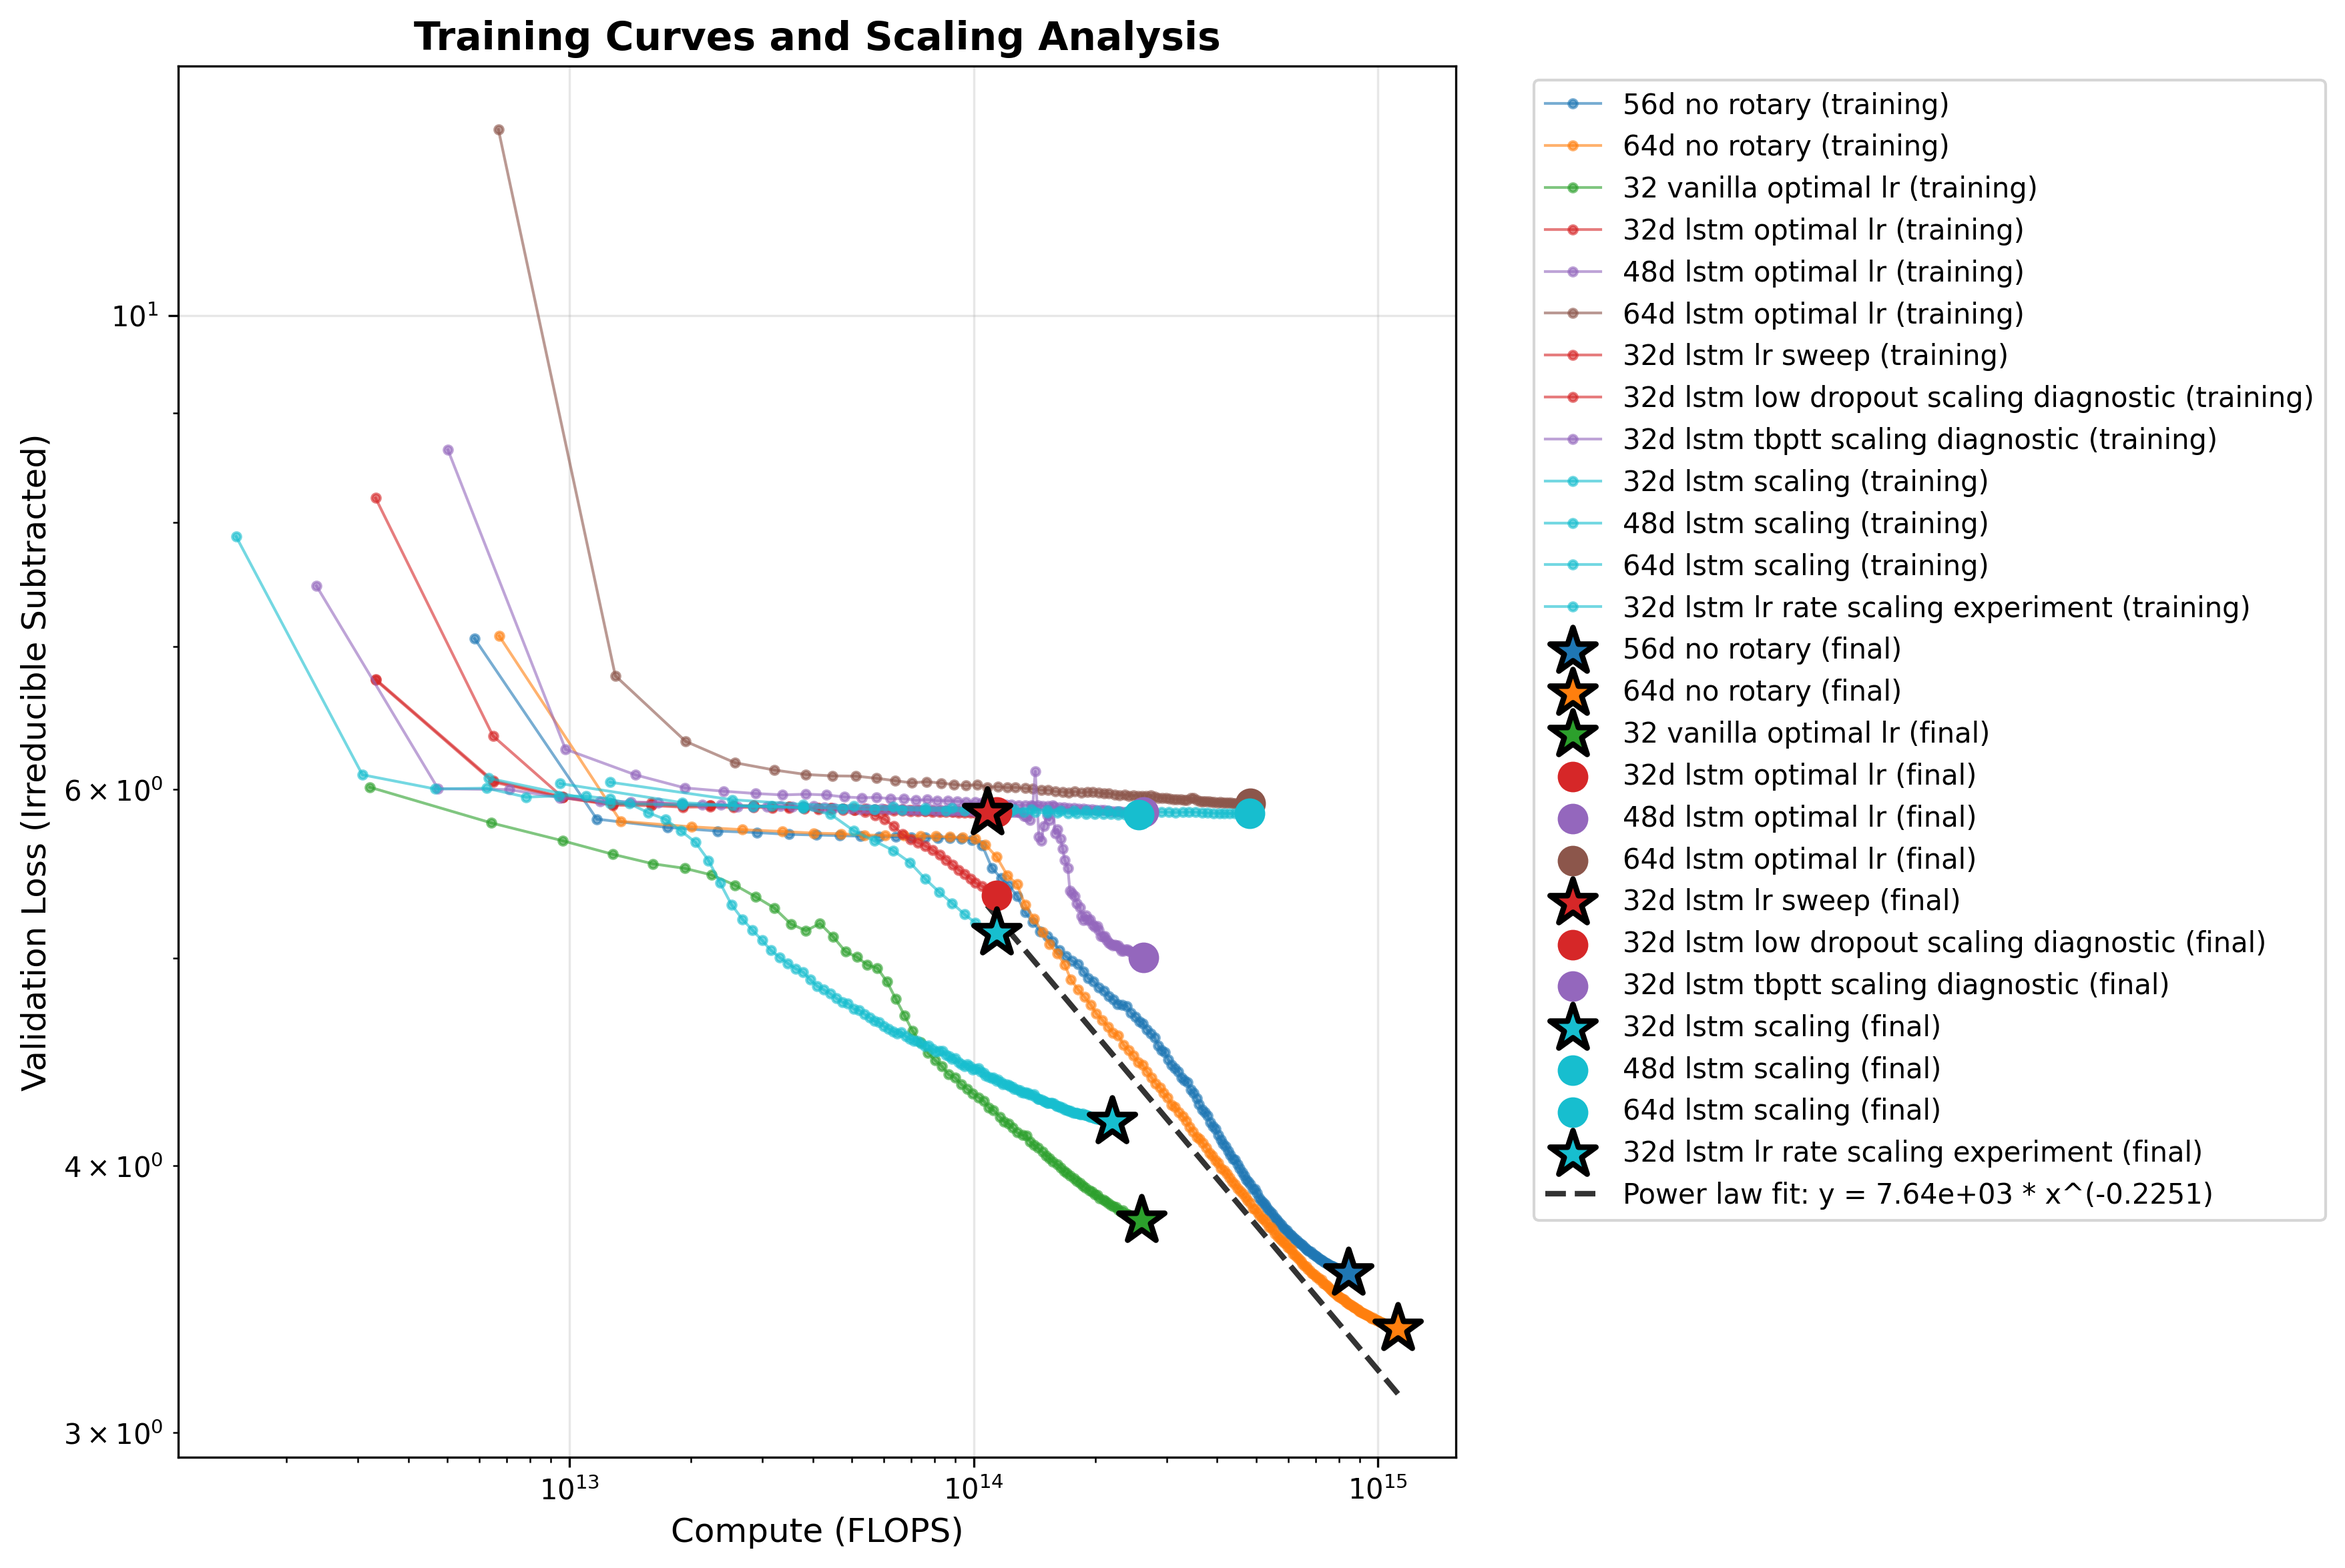
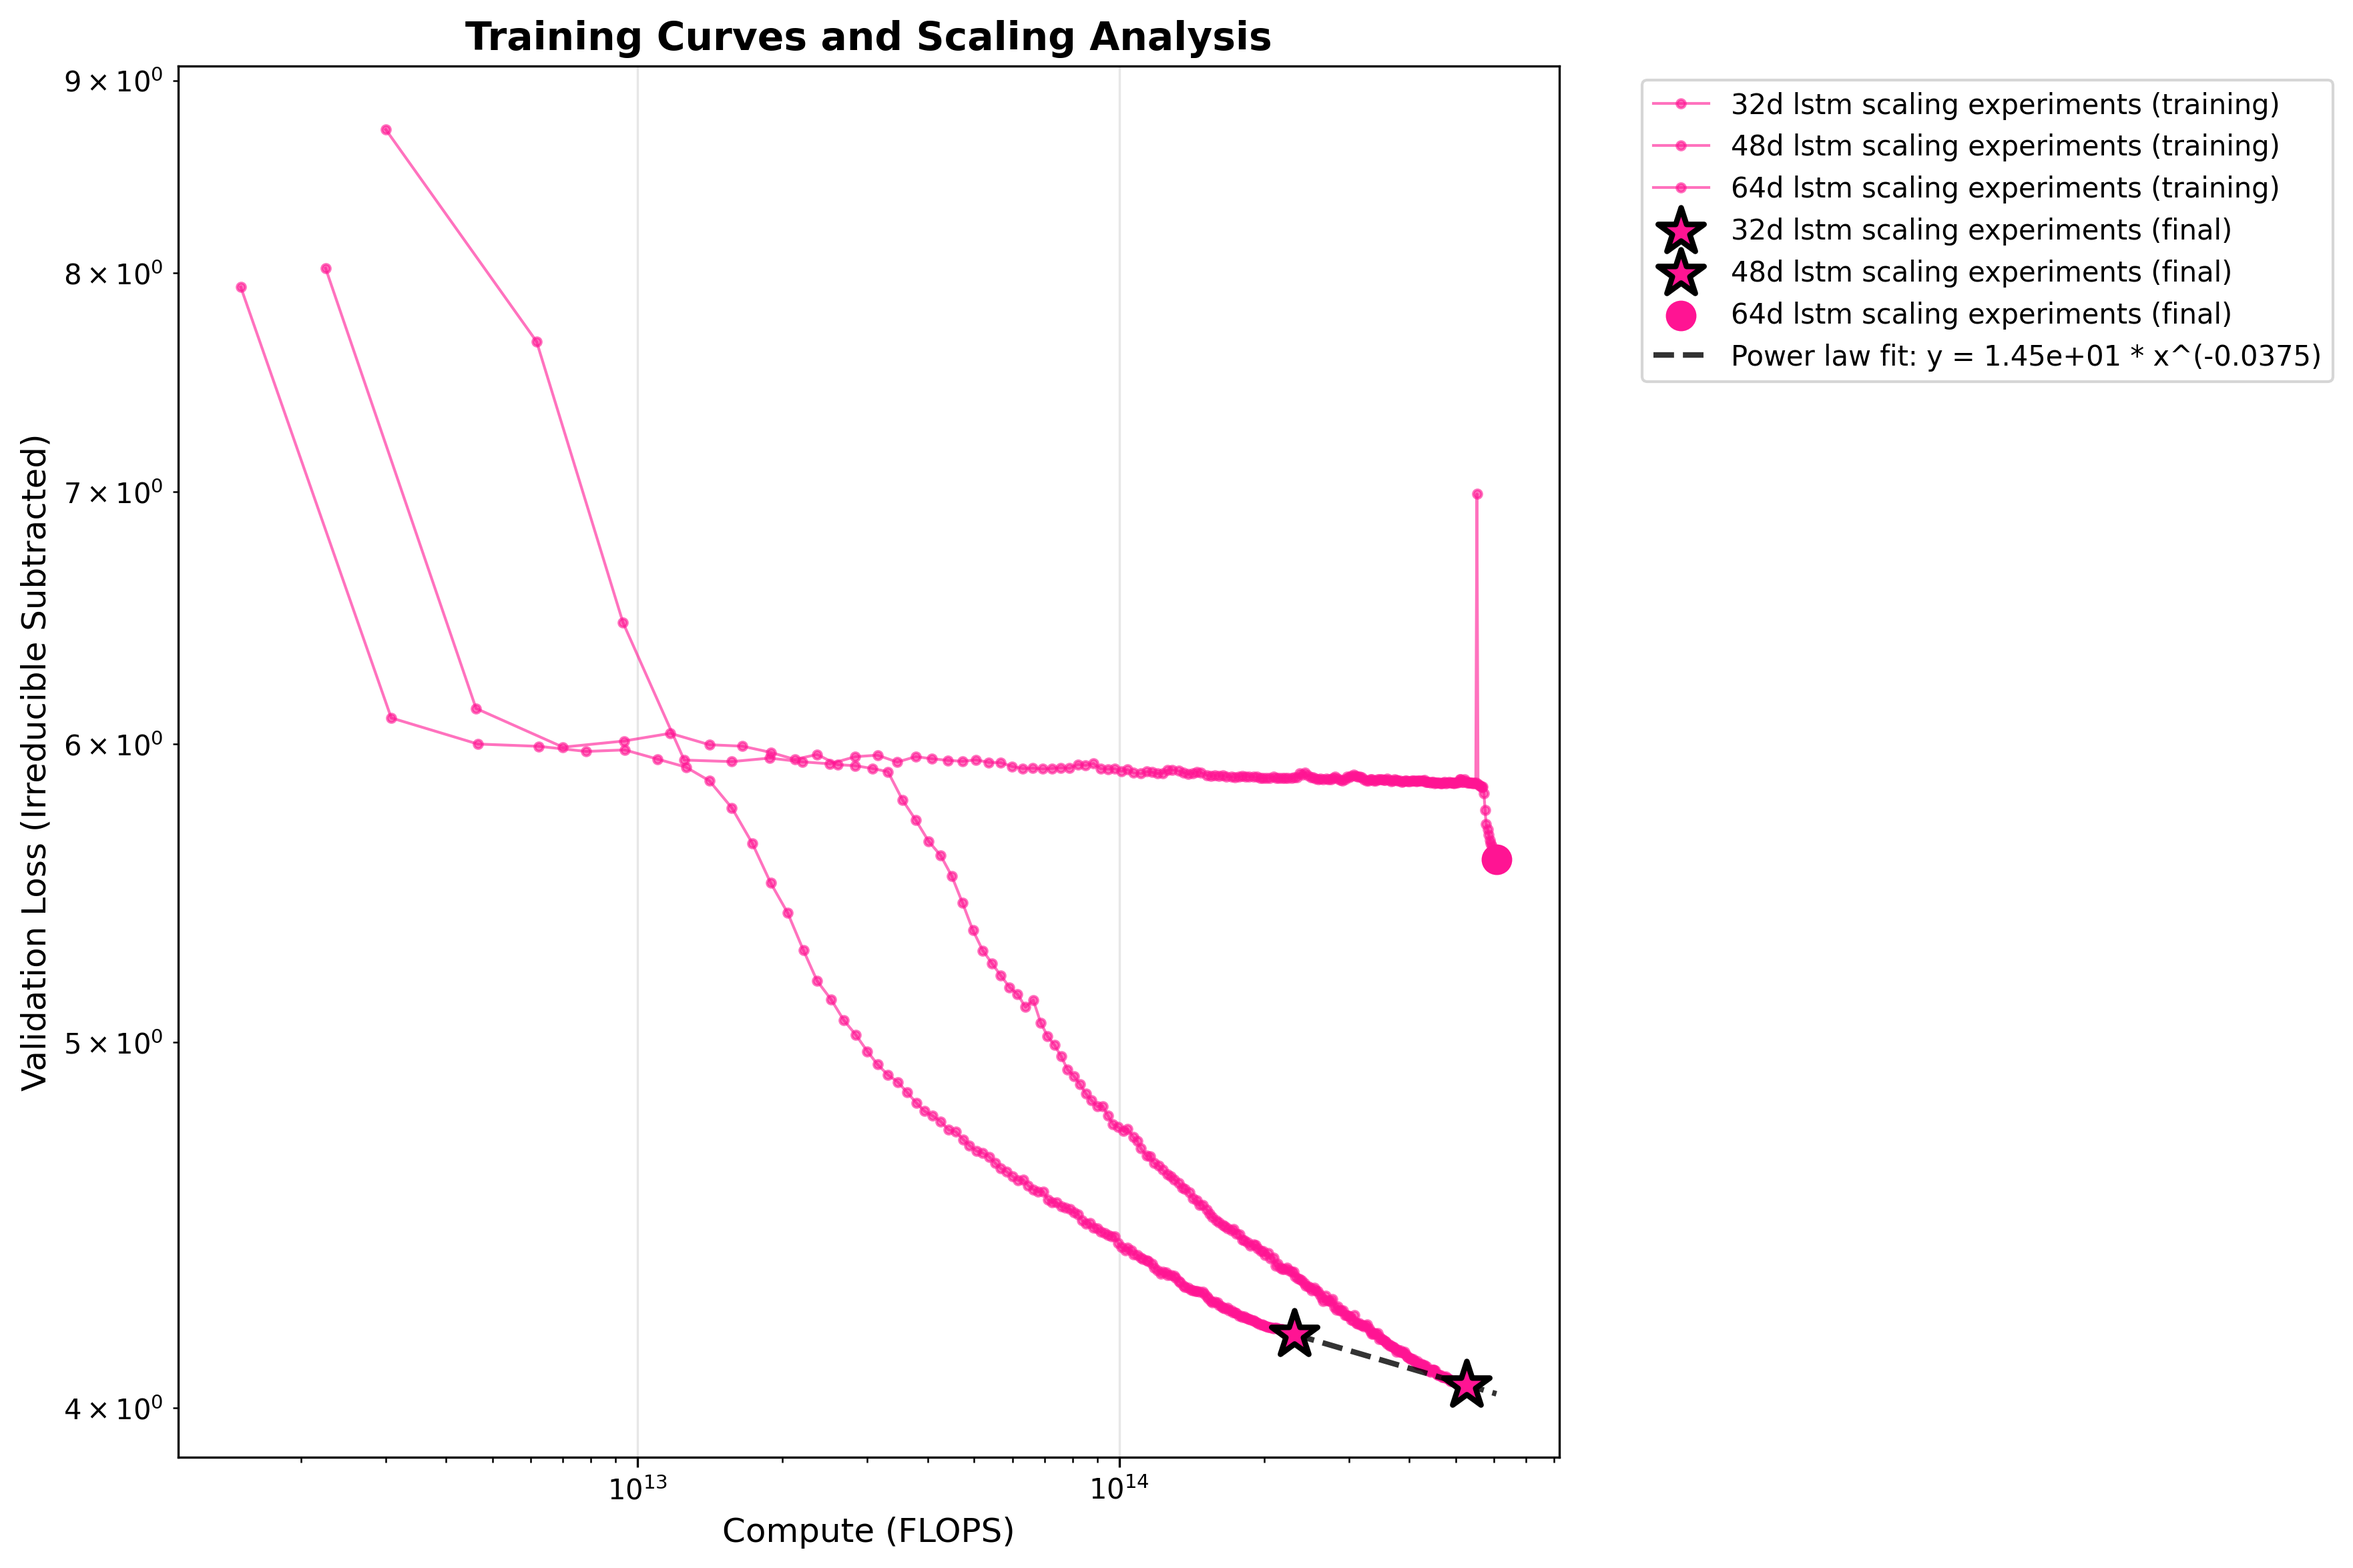
working things before wandb update

diff --git a/experimental_analysis/debugging_scaling_lstm.py b/experimental_analysis/debugging_scaling_lstm.py
@@ -413,131 +413,159 @@ if __name__ == "__main__":
 
     # Add experiments - you can modify these paths and names as needed
     experiments_config = [
-        {
-            "name": "56d no rotary",
-            "csv_path": "../experimental_data_folder/vanilla_scaling_no_rotary/vanilla_56d_no_rot.csv",
-            "marker": "o",
-            "include_in_frontier": True,  # Include in frontier analysis
-            "class": "vanilla_transformer_no_rotary",
-            "hidden_dim": 56,
-        },
-        {
-            "name": "64d no rotary",
-            "csv_path": "../experimental_data_folder/vanilla_scaling_no_rotary/vanilla_64d_no_rot.csv",
-            "marker": "o",
-            "include_in_frontier": True,  # Include in frontier analysis
-            "class": "vanilla_transformer_no_rotary",
-            "hidden_dim": 64,
-        },
-        {
-            "name": "32 vanilla optimal lr",
-            "csv_path": "../experimental_data_folder/vanilla_scaling_optimal_lr/vanilla_32d.csv",
-            "marker": "o",
-            "include_in_frontier": True,  # Include in frontier analysis
-            "class": "vanilla_transformer",
-            "hidden_dim": 32,
-        },
+        # {
+        #     "name": "56d no rotary",
+        #     "csv_path": "../experimental_data_folder/vanilla_scaling_no_rotary/vanilla_56d_no_rot.csv",
+        #     "marker": "o",
+        #     "include_in_frontier": True,  # Include in frontier analysis
+        #     "class": "vanilla_transformer_no_rotary",
+        #     "hidden_dim": 56,
+        # },
+        # {
+        #     "name": "64d no rotary",
+        #     "csv_path": "../experimental_data_folder/vanilla_scaling_no_rotary/vanilla_64d_no_rot.csv",
+        #     "marker": "o",
+        #     "include_in_frontier": True,  # Include in frontier analysis
+        #     "class": "vanilla_transformer_no_rotary",
+        #     "hidden_dim": 64,
+        # },
+        # {
+        #     "name": "32 vanilla optimal lr",
+        #     "csv_path": "../experimental_data_folder/vanilla_scaling_optimal_lr/vanilla_32d.csv",
+        #     "marker": "o",
+        #     "include_in_frontier": True,  # Include in frontier analysis
+        #     "class": "vanilla_transformer",
+        #     "hidden_dim": 32,
+        # },
         # lstm scaling
+        # {
+        #     "name": "32d lstm optimal lr",
+        #     "csv_path": "../experimental_data_folder/lstm_scaling/32d_lstm_experiment.csv",
+        #     "marker": "o",
+        #     "include_in_frontier": True,  # Include in frontier analysis
+        #     "class": "lstm",
+        #     "hidden_dim": 32,
+        # },
+        # {
+        #     "name": "48d lstm optimal lr",
+        #     "csv_path": "../experimental_data_folder/lstm_scaling/48d_lstm_experiment.csv",
+        #     "marker": "o",
+        #     "include_in_frontier": True,  # Include in frontier analysis
+        #     "class": "lstm",
+        #     "hidden_dim": 48,
+        # },
+        # {
+        #     "name": "64d lstm optimal lr",
+        #     "csv_path": "../experimental_data_folder/lstm_scaling/64d_lstm_experiment.csv",
+        #     "marker": "o",
+        #     "include_in_frontier": True,  # Include in frontier analysis
+        #     "class": "lstm",
+        #     "hidden_dim": 64,
+        # },
+        # # lr sweep lstm
+        # {
+        #     "name": "32d lstm lr sweep",
+        #     "csv_path": "../experimental_data_folder/lstm_scaling_lr_sweep/32d_lstm_experiment_lr_10e2.csv",
+        #     "marker": "o",
+        #     "include_in_frontier": True,  # Include in frontier analysis
+        #     "class": "lstm",
+        #     "color": "tab:red",
+        #     "hidden_dim": 32,
+        # },
+        # # low drouput scaling diagnostic
+        # {
+        #     "name": "32d lstm low dropout scaling diagnostic",
+        #     "csv_path": "../experimental_data_folder/lstm_scaling_diagnostic/32d_lstm_low_dropout.csv",
+        #     "marker": "o",
+        #     "include_in_frontier": True,  # Include in frontier analysis
+        #     "class": "lstm",
+        #     "color": "tab:red",
+        #     "hidden_dim": 32,
+        # },
+        # # tbptt scaling diagnostic
+        # {
+        #     "name": "32d lstm tbptt scaling diagnostic",
+        #     "csv_path": "../experimental_data_folder/lstm_scaling_diagnostic/32d_lstm_no_dropout_002_warmup_testtbptt64.csv",
+        #     "marker": "o",
+        #     "include_in_frontier": True,  # Include in frontier analysis
+        #     "class": "lstm",
+        #     "color": "tab:purple",
+        #     "hidden_dim": 32,
+        # },
+        # {
+        #     "name": "32d lstm tbptt scaling diagnostic",
+        #     "csv_path": "../experimental_data_folder/lstm_scaling_diagnostic/48d_batchsize64ll.csv",
+        #     "marker": "o",
+        #     "include_in_frontier": True,  # Include in frontier analysis
+        #     "class": "lstm",
+        #     "color": "tab:purple",
+        #     "hidden_dim": 32,
+        # },
+        # # lstm scaling
+        # {
+        #     "name": "32d lstm scaling",
+        #     "csv_path": "../experimental_data_folder/lstm_scaling/32d_lstm_scaling.csv",
+        #     "marker": "o",
+        #     "include_in_frontier": True,  # Include in frontier analysis
+        #     "class": "lstm",
+        #     "color": "tab:cyan",
+        #     "hidden_dim": 32,
+        # },
+        # {
+        #     "name": "48d lstm scaling",
+        #     "csv_path": "../experimental_data_folder/lstm_scaling/48d_lstm_scaling.csv",
+        #     "marker": "o",
+        #     "include_in_frontier": True,  # Include in frontier analysis
+        #     "class": "lstm",
+        #     "color": "tab:cyan",
+        #     "hidden_dim": 48,
+        # },
+        # {
+        #     "name": "64d lstm scaling",
+        #     "csv_path": "../experimental_data_folder/lstm_scaling/64d_lstm_scaling.csv",
+        #     "marker": "o",
+        #     "include_in_frontier": True,  # Include in frontier analysis
+        #     "class": "lstm",
+        #     "color": "tab:cyan",
+        #     "hidden_dim": 64,
+        # },
+        # # lstm lr rate scaling experiment
+        # {
+        #     "name": "32d lstm lr rate scaling experiment",
+        #     "csv_path": "../experimental_data_folder/lstm_scaling_lr_sweep/yy32d_lstm_scaling_bs64_lr_10e2.csv",
+        #     "marker": "o",
+        #     "include_in_frontier": True,  # Include in frontier analysis
+        #     "class": "lstm",
+        #     "color": "tab:cyan",
+        #     "hidden_dim": 32,
+        # },
+        # lstm scaling experiments
         {
-            "name": "32d lstm optimal lr",
-            "csv_path": "../experimental_data_folder/lstm_scaling/32d_lstm_experiment.csv",
+            "name": "32d lstm scaling experiments",
+            "csv_path": "../experimental_data_folder/lstm_scaling/yy32d_lstm_scaling_bs64.csv",
             "marker": "o",
             "include_in_frontier": True,  # Include in frontier analysis
             "class": "lstm",
+            "color": "deeppink",
             "hidden_dim": 32,
         },
         {
-            "name": "48d lstm optimal lr",
-            "csv_path": "../experimental_data_folder/lstm_scaling/48d_lstm_experiment.csv",
+            "name": "48d lstm scaling experiments",
+            "csv_path": "../experimental_data_folder/lstm_scaling/yy48d_lstm_scaling_bs64.csv",
             "marker": "o",
             "include_in_frontier": True,  # Include in frontier analysis
             "class": "lstm",
+            "color": "deeppink",
             "hidden_dim": 48,
         },
         {
-            "name": "64d lstm optimal lr",
-            "csv_path": "../experimental_data_folder/lstm_scaling/64d_lstm_experiment.csv",
+            "name": "64d lstm scaling experiments",
+            "csv_path": "../experimental_data_folder/lstm_scaling/yy64d_lstm_scaling_bs64.csv",
             "marker": "o",
             "include_in_frontier": True,  # Include in frontier analysis
             "class": "lstm",
+            "color": "deeppink",
             "hidden_dim": 64,
-        },
-        # lr sweep lstm
-        {
-            "name": "32d lstm lr sweep",
-            "csv_path": "../experimental_data_folder/lstm_scaling_lr_sweep/32d_lstm_experiment_lr_10e2.csv",
-            "marker": "o",
-            "include_in_frontier": True,  # Include in frontier analysis
-            "class": "lstm",
-            "color": "tab:red",
-            "hidden_dim": 32,
-        },
-        # low drouput scaling diagnostic
-        {
-            "name": "32d lstm low dropout scaling diagnostic",
-            "csv_path": "../experimental_data_folder/lstm_scaling_diagnostic/32d_lstm_low_dropout.csv",
-            "marker": "o",
-            "include_in_frontier": True,  # Include in frontier analysis
-            "class": "lstm",
-            "color": "tab:red",
-            "hidden_dim": 32,
-        },
-        # tbptt scaling diagnostic
-        {
-            "name": "32d lstm tbptt scaling diagnostic",
-            "csv_path": "../experimental_data_folder/lstm_scaling_diagnostic/32d_lstm_no_dropout_002_warmup_testtbptt64.csv",
-            "marker": "o",
-            "include_in_frontier": True,  # Include in frontier analysis
-            "class": "lstm",
-            "color": "tab:purple",
-            "hidden_dim": 32,
-        },
-        {
-            "name": "32d lstm tbptt scaling diagnostic",
-            "csv_path": "../experimental_data_folder/lstm_scaling_diagnostic/48d_batchsize64ll.csv",
-            "marker": "o",
-            "include_in_frontier": True,  # Include in frontier analysis
-            "class": "lstm",
-            "color": "tab:purple",
-            "hidden_dim": 32,
-        },
-        # lstm scaling
-        {
-            "name": "32d lstm scaling",
-            "csv_path": "../experimental_data_folder/lstm_scaling/32d_lstm_scaling.csv",
-            "marker": "o",
-            "include_in_frontier": True,  # Include in frontier analysis
-            "class": "lstm",
-            "color": "tab:cyan",
-            "hidden_dim": 32,
-        },
-        {
-            "name": "48d lstm scaling",
-            "csv_path": "../experimental_data_folder/lstm_scaling/48d_lstm_scaling.csv",
-            "marker": "o",
-            "include_in_frontier": True,  # Include in frontier analysis
-            "class": "lstm",
-            "color": "tab:cyan",
-            "hidden_dim": 48,
-        },
-        {
-            "name": "64d lstm scaling",
-            "csv_path": "../experimental_data_folder/lstm_scaling/64d_lstm_scaling.csv",
-            "marker": "o",
-            "include_in_frontier": True,  # Include in frontier analysis
-            "class": "lstm",
-            "color": "tab:cyan",
-            "hidden_dim": 64,
-        },
-        #lstm lr rate scaling experiment 
-        {
-            "name": "32d lstm lr rate scaling experiment",
-            "csv_path": "../experimental_data_folder/lstm_scaling_lr_sweep/yy32d_lstm_scaling_bs64_lr_10e2.csv",
-            "marker": "o",
-            "include_in_frontier": True,  # Include in frontier analysis
-            "class": "lstm",
-            "color": "tab:cyan",
-            "hidden_dim": 32,
         },
     ]
 

diff --git a/experimental_analysis/fit_hitchhikers_loss.py b/experimental_analysis/fit_hitchhikers_loss.py
@@ -972,19 +972,22 @@ def get_dataset_configurations() -> dict:
             (str(p), n) for p, n in vanilla_optimal_pairs if p.exists()
         ]
 
-    # 3. MuP scaling experiments
-    # mup_dir = data_folder / "mup_scaling_experiments"
-    # if mup_dir.exists():
-    #     mup_pairs = [
-    #         (mup_dir / "mup_32d.csv", 1683000),
-    #         (mup_dir / "mup_40d.csv", 2098000),
-    #         (mup_dir / "mup_48d.csv", 2545000),
-    #         (mup_dir / "mup_56d.csv", 3015000),
-    #         (mup_dir / "mup_64d.csv", 3463000),
-    #     ]
-    #     configurations["mup_scaling_experiments"] = [
-    #         (str(p), n) for p, n in mup_pairs if p.exists()
-    #     ]
+
+
+
+    #no rotary scaling 
+    mup_dir = data_folder / "mup_scaling_experiments"
+    if mup_dir.exists():
+        mup_pairs = [
+            (mup_dir / "vanilla_32d_no_rot.csv", 1683000),
+            (mup_dir / "vanilla_40d_no_rot.csv", 2098000),
+            (mup_dir / "vanilla_48d_no_rot.csv", 2545000),
+            (mup_dir / "vanilla_56d_no_rot.csv", 3015000),
+            (mup_dir / "vanilla_64d_no_rot.csv", 3463000),
+        ]
+        configurations["mup_scaling_experiments"] = [
+            (str(p), n) for p, n in mup_pairs if p.exists()
+        ]
 
     return configurations
 
